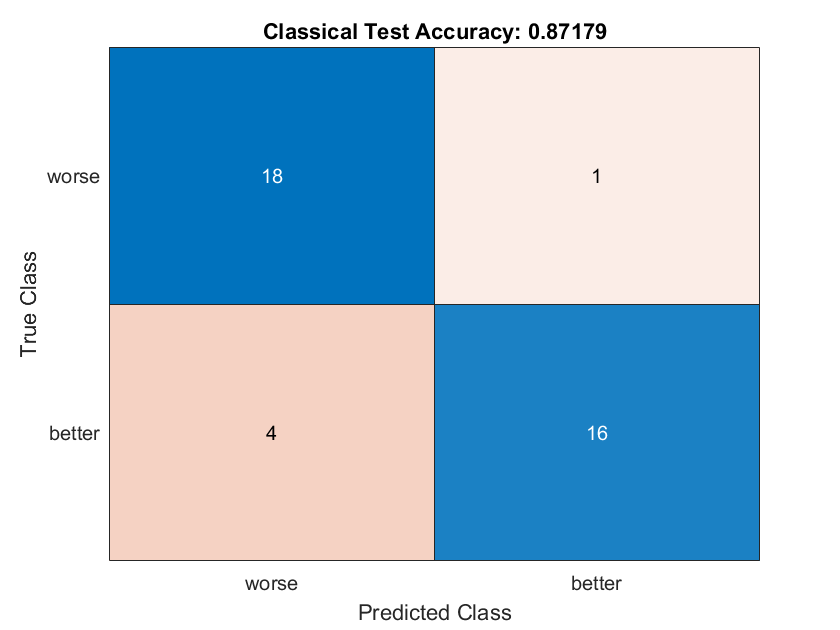
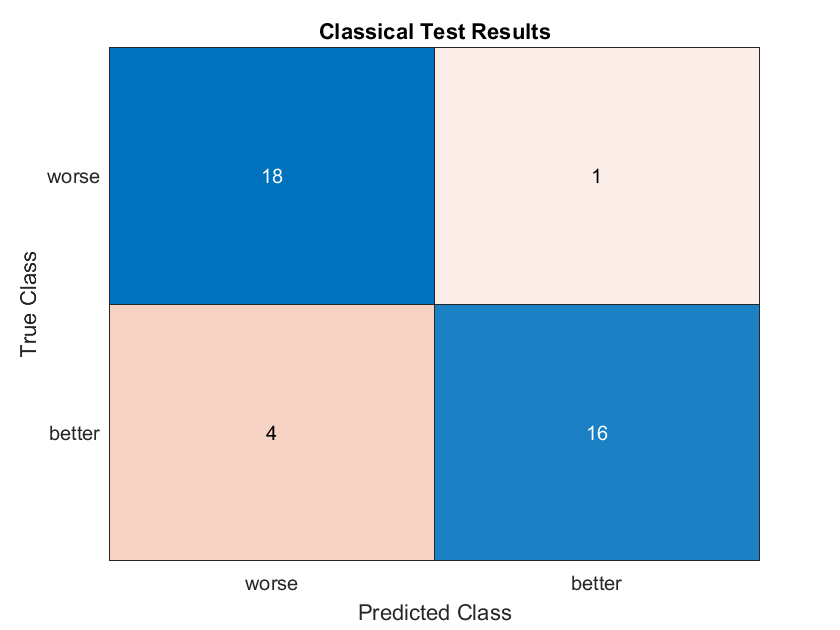
IBM hardware results

Changed region(s): [[0.3095, 0.0302, 0.7429, 0.0905]]

diff --git a/examples/machine-learning/classifiers/creditscores/quantumCircuitLayerIBM.m b/examples/machine-learning/classifiers/creditscores/quantumCircuitLayerIBM.m
@@ -1,0 +1,119 @@
+classdef quantumCircuitLayerIBM < nnet.layer.Layer
+    properties (Learnable)
+        Weights
+    end
+
+    properties
+        Backend
+    end
+
+    methods
+        function layer = quantumCircuitLayerIBM(backend, weights)
+            arguments
+                backend
+                weights
+            end
+
+            assert(isa(backend, "quantum.backend.QuantumDevice"))
+
+            layer.Backend = backend;
+            layer.Weights = weights;
+        end
+
+        function Z = predict(layer, X)
+            % Z = predict(layer, X) forwards the input data X through the
+            % layer and outputs the result Z. This method is used during
+            % prediction.
+
+            Z = expval(layer, X, layer.Weights);
+        end
+
+        function [Z,memory] = forward(layer, X)
+            % Z = forward(layer, X) forwards the input data X through the
+            % layer and outputs the result Z. This method is used during
+            % training.
+
+            Z = expval(layer, X, layer.Weights);
+            memory = [];
+        end
+
+        function [dLdX,dLdW] = backward(layer,X,~,dLdZ,~)
+            % Backward propagate the derivative of the loss
+            % function through the layer.
+            %
+            % Inputs:
+            %         layer   - Layer to backward propagate through
+            %         X       - Layer input data
+            %         Z       - Layer output data
+            %         dLdZ    - Derivative of loss with respect to layer
+            %                   output
+            %         memory  - Memory value from forward function
+            % Outputs:
+            %         dLdX   - Derivative of loss with respect to layer input
+            %         dLdW   - Derivative of loss with respect to
+            %                  learnable parameters
+
+            s = pi/4;
+            dLdW = zeros(size(layer.Weights),'like',layer.Weights);
+
+            for i=1:size(layer.Weights, 1)
+                % Parameter-Shift
+                WPlus = layer.Weights;
+                WPlus(i) = WPlus(i) + s;
+                ZPlus = expval(layer, X, WPlus);
+
+                WMinus = layer.Weights;
+                WMinus(i) = WMinus(i) - s;
+                ZMinus = expval(layer, X,WMinus);
+
+                dZdWi = (ZPlus - ZMinus)/(2*sin(s));
+                dLdW(i) = sum(dLdZ .* dZdWi, 'all');
+            end
+
+            % Make this all zero since this gradient is not going to be
+            % used during training.
+            dLdX = zeros(size(X), 'like', X);
+        end
+
+        function Z = expval(layer, X, weights)
+
+            if all(X == [1;1;1;1])
+                % Don't run the circuit during the validation step of the
+                % network
+                Z = zeros(1, 'like', X);
+                return
+            end
+
+            numSamples = size(X,2);
+            numQubits = size(X,1);
+            Z = zeros(1,numSamples,'like',X);
+            readout = 3;
+
+            % TTN Classifier, see Figure 6 [1]
+            paramGates = [ryGate(1:numQubits, weights(1:numQubits))
+                cxGate([1 4], [2 3])
+                ryGate([2 3], weights(numQubits+1:end-1))
+                cxGate(2,3)
+                ryGate(readout, weights(end))
+                ];
+            
+            % Submit a task for each data sample
+            tasks = cell(numSamples, 1);
+            for i = 1:numSamples
+                encodingGates = [ryGate(1:numQubits, 2*X(:,i))];
+                mdl = quantumCircuit([encodingGates; paramGates]);
+
+                task = run(mdl, layer.Backend, NumShots=1000);
+                tasks{i} = task;
+            end
+            
+            for i = 1:numSamples
+                t = tasks{i};
+                wait(t)
+                result = fetchOutput(t);
+                % Compute expectation value of Pauli Z operator on the measured qubit
+                Z(i) = probability(result,readout,"0") - probability(result,readout,"1");
+            end
+        end
+    end
+end

diff --git a/examples/machine-learning/classifiers/creditscores/credit_classifier.m b/examples/machine-learning/classifiers/creditscores/credit_classifier.m
@@ -20,6 +20,7 @@ trainY = Y(idx);
 testX = X(~idx,:);
 testY = Y(~idx);
 
+% Save the test data so it can be loaded when running on hardware
 save('testDataCredit.mat', 'testX', 'testY')
 
 %% Evaluate Classical Model
@@ -33,7 +34,7 @@ predY = predict(dTree, testX);
 figure
 accur = sum(testY==categorical(predY))/numel(testY);
 confusionchart(testY, categorical(predY))
-title('Classical Test Accuracy: '+string(accur))
+title("Classical Test Results")
 
 %% Evaluate Quantum Model
 
@@ -47,42 +48,41 @@ title('Classical Test Accuracy: '+string(accur))
 %     classificationLayer];
 % 
 % options = trainingOptions("adam", ...
-%     MiniBatchSize=20, ...
+%     MiniBatchSize=50, ...
 %     InitialLearnRate=0.01, ...
 %     ExecutionEnvironment="cpu", ...
 %     Verbose=false, ...
 %     MaxEpochs=25, ...
 %     Plots="training-progress");
-
+% 
 % net = trainNetwork(trainX,trainY,layers,options);
 % save('trainedNetwork.mat', 'net')
 
 trained = load('trainedNetwork.mat');
 net = trained.net;
-
+ 
 predY = classify(net, testX);
 
 figure
 accur = sum(testY==predY)/numel(testY);
 confusionchart(testY, predY);
-title('Quantum Simulation Test Accuracy: '+string(accur))
+title("Simulation Test Results")
 
 %% Evaluate Models on New Data
 
 % The quantum and classical models were tested using unseen labeled data.
-% Now compare the predictions of both models on unlabeled data.
+% Now compare the predictions of both models on new unlabeled data.
 
-unlabeledData = readtable("CreditRating_NewCompanies.dat");
-X = processCreditData(unlabeledData);
-
-Y1 = predict(dTree, X);
-Y1 = categorical(Y1);
-
-Y2 = classify(net, X);
-
-figure
-accur = sum(Y1==Y2)/size(X,1);
-cm = confusionchart(Y1, Y2);
-cm.XLabel = "Classical";
-cm.YLabel = "Quantum";
-title("Model Agreement Frequency on New Data: "+string(accur))
+% unlabeledData = readtable("CreditRating_NewCompanies.dat");
+% X = processCreditData(unlabeledData);
+% 
+% Y1 = predict(dTree, X);
+% Y1 = categorical(Y1);
+% 
+% Y2 = classify(net, X);
+% 
+% figure
+% accur = sum(Y1==Y2)/size(X,1);
+% cm = confusionchart(Y1, Y2);
+% cm.XLabel = "Classical";
+% cm.YLabel = "Quantum";

diff --git a/examples/machine-learning/classifiers/creditscores/run_on_ibm.m b/examples/machine-learning/classifiers/creditscores/run_on_ibm.m
@@ -1,0 +1,28 @@
+
+% Load the trained network
+% trained = load('trainedNetwork.mat');
+% trainedLayers = trained.net.Layers;
+
+% Account setup required for constructing QuantumDeviceIBM can be found at:
+% https://www.mathworks.com/help/matlab/math/run-quantum-circuit-on-hardware-using-IBM.html
+
+% Construct a new network using the classically trained weights
+% device = quantum.backend.QuantumDeviceIBM("ibm_algiers", UseSession=true, AccountName="...");
+% layers = [
+%     trainedLayers(1)
+%     quantumCircuitLayerIBM(device, trainedLayers(2).Weights)
+%     trainedLayers(3:5)
+%     ];
+% net = SeriesNetwork(layers);
+
+% Load and classify test data
+testdata = load('testDataCredit.mat');
+% predY = classify(net, testdata.testX);
+
+results = load('ibm_algiers_pred_1000.mat');
+predY = results.predY;
+
+figure
+accur = sum(testdata.testY==predY)/numel(testdata.testY);
+confusionchart(testdata.testY, predY);
+title("IBM Algiers Test Results")

diff --git a/examples/machine-learning/classifiers/creditscores/quantumCircuitLayer.m b/examples/machine-learning/classifiers/creditscores/quantumCircuitLayer.m
@@ -87,7 +87,7 @@ for i = 1:numSamples
     mdl = quantumCircuit([encodingGates; paramGates]);
 
     % Compute expectation value of Pauli Z operator on the measured qubit
-    sv = simulate(mdl);
-    Z(i) = probability(sv,readout,"0") - probability(sv,readout,"1");
+    result = simulate(mdl);
+    Z(i) = probability(result,readout,"0") - probability(result,readout,"1");
 end
 end

diff --git a/examples/machine-learning/classifiers/creditscores/README.md b/examples/machine-learning/classifiers/creditscores/README.md
@@ -20,16 +20,23 @@ openExample('stats/creditratingdemo')
 ## Simulation and Hardware Test Results 
 
 Models were trained using 99% of the data, and tested on the remaining 1%.
-Diagonal elements represent the correct prediction.
+Diagonal elements represent the correct test prediction. The simulated 
+quantum model performs slighly better on test data than the classical
+decision tree model.
 
 ![](confusionTestClassical.png?raw=true)
 
 ![](confusionTestQuantum.png?raw=true)
 
+The IBM Algiers quantum device was used with 1000 shots to classify the
+test set.
+
+![](confusionTestHardwareAria1.png?raw=true)
+
 The Aria 1 quantum device was used with 100 shots to classify 10 samples
 from the test set.
 
-![](confusionTestHardware.png?raw=true)
+![](confusionTestHardwareAria1.png?raw=true)
 
 ## Simulation Test Results on New Data
 
